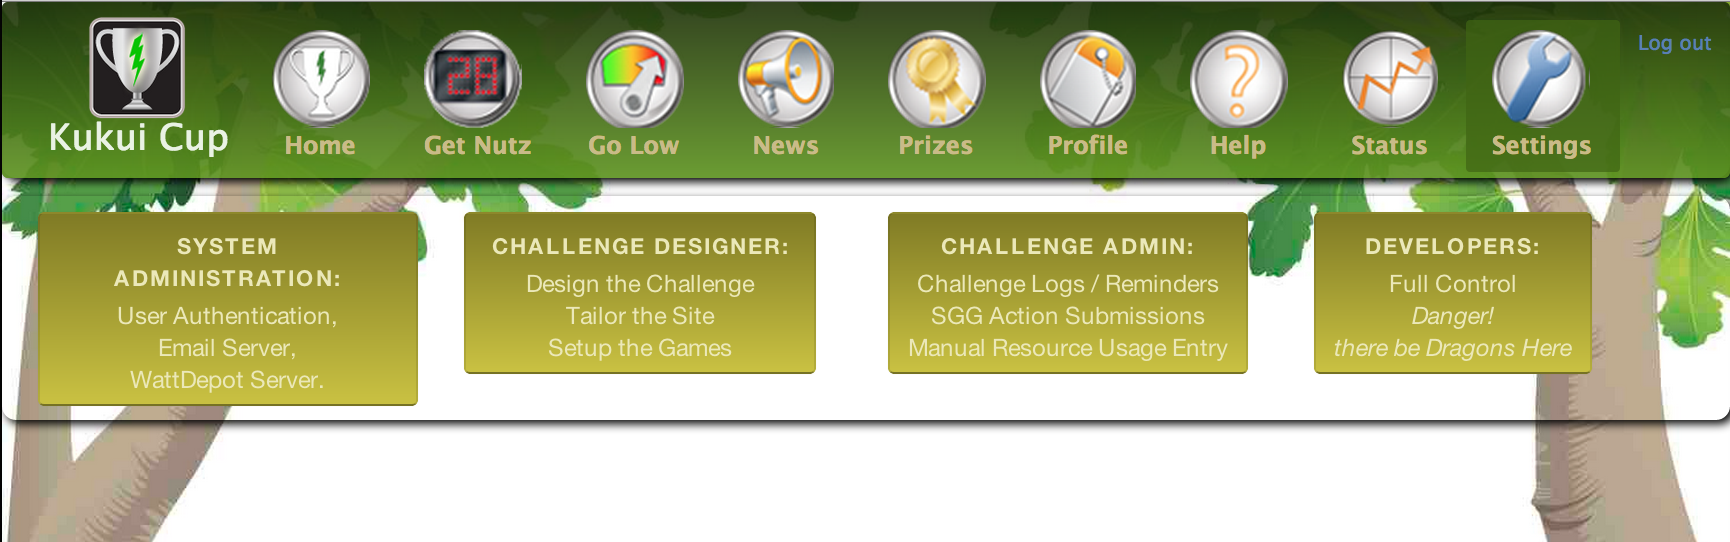
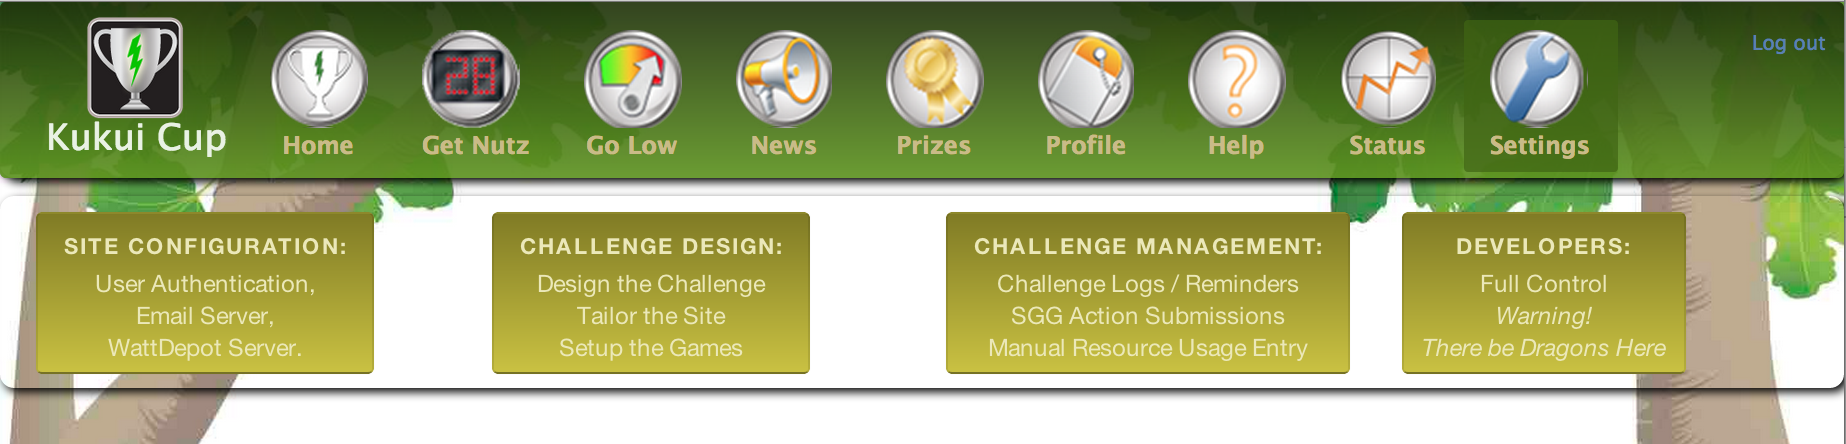
Lots more work on the challenge design section

diff --git a/doc/challenge-design.rst b/doc/challenge-design.rst
@@ -6,14 +6,41 @@ Challenge Design
 
 Along with specifying authentication, wattdepot, and email configuration (see
 :ref:`section-site-configuration`), you must also design the specific nature of your
-challenge.  Go to the Settings Page, and click on the Challenge Design button to retrieve
-the following page:
+challenge.  Go to the Settings Page (see :ref:`section-configuration-settings-page`), and
+click on the Challenge Design button to retrieve the following page:
 
 .. figure:: figs/configuration/configuration-challenge-design.png
    :width: 600 px
    :align: center
 
-The following sections discuss how you use these settings to specify the design of your challenge.
+As you can see, the page consists of two sections, "Challenge Settings" and "Game
+Settings".  Challenge settings enables you to set the global properties of the challenge
+(rounds, scores, users, etc.), while Game Settings enables you to configure the specific
+games to appear in the challenge and their properties. 
+
+Challenge Settings
+------------------
+
+The following sections document the settings accessable from the "Challenge Settings" widget.
+
+.. toctree::
+   :maxdepth: 1
+
+   challenge-design-name-settings
+   challenge-design-round-settings
+   challenge-design-score-settings
+   challenge-design-groups-settings
+   challenge-design-teams-settings
+   challenge-design-players-settings
+
+.. todo:: In the Challenge Design page, provide documentation for "Other Settings" and
+   "Scheduler (Celery) - Optional". I found that the Scheduler links led to an error
+   page--is that appropriate behavior? 
+
+Game Design Settings
+---------------------
+
+The following sections document the settings accessable from the "Game Settings" widget.
 
 .. toctree::
    :maxdepth: 1
@@ -28,7 +55,6 @@ The following sections discuss how you use these settings to specify the design 
    challenge-design-game-admin-badge
    challenge-design-game-admin-referral
 
-.. todo:: Document the Challenge Settings widget contents. 
 
 
 

diff --git a/doc/site-administration-guide.rst b/doc/site-administration-guide.rst
@@ -6,26 +6,26 @@ Site Administration Guide
 This guide is divided into sections that follow the phases of the
 "life cycle" of a Makahiki serious game project:
 
-  1. Software installation.  During this phase, you download and install the Makahiki
+  1. :ref:`section-software-installation`.  During this phase, you download and install the Makahiki
   software and related systems. 
 
-  2. Site configuration.  During this phase, you configure your Makahiki installation to
+  2. :ref:`section-site-configuration`.  During this phase, you configure your Makahiki installation to
   the specifics of your IT infrastructure (authentication, email, etc.)
 
-  3. Challenge design.  During this phase, you tailor Makahiki to the specifics of your
+  3. :ref:`section-challenge-design`.  During this phase, you tailor Makahiki to the specifics of your
   challenge, specifying the players, the start and end times, the rounds, the games,
   the Smart Grid Game activities, excursions, and commitments, the prizes, the default theme, and so forth. 
 
-  4. Challenge management.  During this phase, the challenge is running and players
+  4. :ref:`section-challenge-management`.  During this phase, the challenge is running and players
   are actively using your system. Management activities include monitoring game play,
   verifying Smart Grid Game activity submissions, and so forth.
 
-  5. Challenge postmortem.  After the challenge is over, this phase focuses on analysis of
+  5. :ref:`section-challenge-postmortem`.  After the challenge is over, this phase focuses on analysis of
   the data collected with the goal of better understanding what happened and how to
   improve your challenge design in the future. 
 
 .. toctree::
-   :maxdepth: 2
+   :maxdepth: 1
    
    installation
    configuration

diff --git a/doc/challenge-design-name-settings.rst b/doc/challenge-design-name-settings.rst
@@ -1,0 +1,79 @@
+.. _section-challenge-name-settings:
+
+
+Design the global settings
+==========================
+
+Clicking on `Challenge Settings` within the Challenge Design Page brings up a page with the
+following forms. 
+
+Specify the name, logo, etc.
+----------------------------
+
+The following form enables you to configure some basic properties
+
+.. figure:: figs/configuration/configuration-challenge-design-name.png
+   :width: 600 px
+   :align: center
+
+.. todo:: Document the challenge design name form. Specify where each of the values
+   indicated in this form actually show up in the user interface. 
+
+
+Specify the Landing page text
+-----------------------------
+
+This form enables you to customize the text that appears on the Landing Page:
+
+.. figure:: figs/configuration/configuration-challenge-design-landing-page.png
+   :width: 600 px
+   :align: center
+
+The system is initialized with text appropriate to the Kukui Cup challenge at the
+University of Hawaii.  You should change this to reflect your own challenge circumstances.
+
+Specify the About page text
+---------------------------
+
+This form enables you to customize the text that appears on the About Page:
+
+.. figure:: figs/configuration/configuration-challenge-design-about-page.png
+   :width: 600 px
+   :align: center
+
+.. todo:: The text field for displaying the About field should be made more than two lines
+   deep (should be 20 lines minimum if possible). This is a programming change.
+
+
+Specify the sponsors
+--------------------
+
+This form enables you to  specify the Sponsors that appear on the Landing page.
+
+.. figure:: figs/configuration/configuration-challenge-design-sponsors.png
+   :width: 600 px
+   :align: center
+
+
+
+
+
+
+
+
+
+
+
+
+
+
+
+
+
+
+
+
+
+
+
+

diff --git a/doc/challenge-design-score-settings.rst b/doc/challenge-design-score-settings.rst
@@ -1,12 +1,9 @@
 .. _section-configuration-challenge-admin-score-settings:
 
-Score Settings Page
-===================
+Design the point rubric 
+=======================
 
-Select score settings
----------------------
-
-After clicking on the "Score Settings" link in the Challenge Admin widget, a page similar to the following should appear:
+After clicking on the "Score Settings" link in the Challenge Design page, a page similar to the following should appear:
 
 .. figure:: figs/configuration/configuration-challenge-admin-score-settings.1.png
    :width: 600 px
@@ -14,9 +11,12 @@ After clicking on the "Score Settings" link in the Challenge Admin widget, a pag
 
 All challenges must contain exactly one score settings object, which should be automatically created as part of the system initialization process.
 
+This score settings object defines the "point rubric", i.e. the number of points to be
+awarded for various types of actions in the game.   In most cases, the default rubric is
+fine. 
 
-Configure score settings
-------------------------
+Configure points
+----------------
 
 .. figure:: figs/configuration/configuration-challenge-admin-score-settings.2.png
    :width: 600 px
@@ -25,8 +25,5 @@ Configure score settings
 Clicking on the "Score Settings" instance takes you to a page where you can configure the number of points earned by players for various actions. 
 
 
-Click "Save" when finished
---------------------------
-
-Remember to click the Save button at the bottom of the page when finished to save your changes. 
+.. note:: Remember to click the Save button at the bottom of the page when finished to save your changes. 
 

diff --git a/doc/challenge-design-players-settings.rst b/doc/challenge-design-players-settings.rst
@@ -1,12 +1,12 @@
 .. _section-configuration-challenge-admin-players-settings:
 
-Players Settings Page
-=====================
+Set up the player roster
+========================
 
 Adding new player(s)
 --------------------
 
-After clicking on the "Users" link in the Challenge Admin widget, a page similar to the following should appear:
+After clicking on the "Users" link in the Challenge Design, a page similar to the following should appear:
 
 .. figure:: figs/configuration/configuration-challenge-admin-players-settings.1.png
    :width: 600 px
@@ -14,7 +14,7 @@ After clicking on the "Users" link in the Challenge Admin widget, a page similar
 
 To add a new player, click the "Add user" button in the upper right corner. To load a list of users defined in a csv file, the "Bulk create users" button could be used, which will prompt you to upload a csv file from your local computer.
 
-The format of the csv file is the followings::
+The format of the csv file is as follows::
 
     team, firstname, lastname, email, username, password
 
@@ -38,8 +38,5 @@ Changing the Profile of an existing player
 
 Clicking on the "profile" link brings up a page to modify the  profile information of the player.
 
-Click "Save" when finished
---------------------------
-
-Remember to click the Save button at the bottom of the page when finished to save your changes.
+.. note:: Remember to click the Save button at the bottom of the page when finished to save your changes.
 

diff --git a/doc/challenge-design-teams-settings.rst b/doc/challenge-design-teams-settings.rst
@@ -1,12 +1,9 @@
 .. _section-configuration-challenge-admin-teams-settings:
 
-Teams Settings Page
-===================
+Design the teams
+================
 
-Select teams settings
----------------------
-
-After clicking on the "Teams Settings" link in the Challenge Admin widget, a page similar to the following should appear:
+After clicking on the "Teams Settings" link in the Challenge Design page, a page similar to the following should appear:
 
 .. figure:: figs/configuration/configuration-challenge-admin-teams-settings.1.png
    :width: 600 px
@@ -32,8 +29,5 @@ Configure team settings
 
 In this example, clicking on the "Lehua-A" instance brings up this page with information about the team.  As with groups, you must provide a name and a slug (unique ID).  In addition, you specify the group to which this team belongs. 
 
-Click "Save" when finished
---------------------------
-
-Remember to click the Save button at the bottom of the page when finished to save your changes. 
+.. note:: Remember to click the Save button at the bottom of the page when finished to save your changes. 
 

diff --git a/doc/challenge-design-round-settings.rst b/doc/challenge-design-round-settings.rst
@@ -1,12 +1,9 @@
 .. _section-configuration-challenge-admin-round-settings:
 
-Round Settings Page
-===================
+Design the rounds
+=================
 
-Select round settings
----------------------
-
-After clicking on the "Round Settings" link in the Challenge Admin widget, a page similar to the following should appear:
+After clicking on the "Round Settings" link in the Challenge Design page, a page similar to the following should appear:
 
 .. figure:: figs/configuration/configuration-challenge-admin-round-settings.1.png
    :width: 600 px
@@ -26,8 +23,5 @@ Configure a round
 Clicking on a round name takes you to a page containing a form that allows you to edit the round attributes or delete the round entirely. 
 
 
-Click "Save" when finished
---------------------------
-
-Remember to click the Save button at the bottom of the page when finished to save your changes. 
+.. note:: Remember to click the Save button at the bottom of the page when finished to save your changes. 
 

diff --git a/doc/challenge-design-groups-settings.rst b/doc/challenge-design-groups-settings.rst
@@ -1,12 +1,9 @@
 .. _section-configuration-challenge-admin-groups-settings:
 
-Groups Settings Page
-====================
+Design the groups
+=================
 
-Select groups settings
-----------------------
-
-After clicking on the "Groups Settings" link in the Challenge Admin widget, a page similar to the following should appear:
+After clicking on the "Groups Settings" link in the Challenge Design page, a page similar to the following should appear:
 
 .. figure:: figs/configuration/configuration-challenge-admin-groups-settings.1.png
    :width: 600 px
@@ -34,8 +31,6 @@ In this example, clicking on the "Lehua" instance brings up this page with infor
 
 The members of a group are specified during team configuration.
 
-Click "Save" when finished
---------------------------
 
-Remember to click the Save button at the bottom of the page when finished to save your changes. 
+.. note:: Remember to click the Save button at the bottom of the page when finished to save your changes. 
 

diff --git a/doc/configuration.rst b/doc/configuration.rst
@@ -16,7 +16,7 @@ fixture, and that the server is now running.
 
 
 .. toctree::
-   :maxdepth: 2
+   :maxdepth: 1
 
    configuration-settings-page
    configuration-system-administration-authentication

diff --git a/doc/installation.rst b/doc/installation.rst
@@ -19,7 +19,7 @@ sections go into more detail on these issues.
 
 
 .. toctree::
-   :maxdepth: 2
+   :maxdepth: 1
 
    installation-makahiki
    installation-wattdepot

diff --git a/doc/postmortem.rst b/doc/postmortem.rst
@@ -1,3 +1,5 @@
+.. _section-challenge-postmortem: 
+
 Challenge Postmortem
 ====================
 
